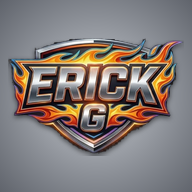
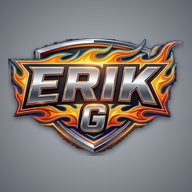
Marca Erik G en toda la app y la tienda
- Logo ERIK G (escudo con flamas) en tienda, app, íconos PWA y vista previa de Facebook
- Todo texto visible que decía Chicos Wheels ahora dice Erik G (también manual, catálogo y respaldo)

diff --git a/static/app.js b/static/app.js
@@ -1,5 +1,5 @@
 /* ==========================================================================
-   Chicos Wheels · cliente
+   Erik G · cliente
    Habla con la API por HTTP. La única fuente de verdad es el servidor:
    aquí solo se guarda una copia para pintar rápido, y después de cada
    cambio se vuelve a pedir el estado completo.
@@ -40,11 +40,11 @@ const TEMAS = [
     bg: '#F6F7F9', muestra: ['#F6F7F9', '#1F6FEB', '#FFD24D', '#1B2433', '#D32F2F'] },
   { id: 'grafito', nombre: 'Grafito', descripcion: 'Gris neutro, sin brillos. Para sesiones largas.',
     bg: '#121417', muestra: ['#121417', '#E7EAEE', '#7FB2D9', '#C9A66B', '#E0645F'] },
-  // 'clasico' (azul y dorado sobre marino, el original de Chicos Wheels) se
+  // 'clasico' (azul y dorado sobre marino, el original de Erik G) se
   // desactivó a petición: los colores todavía no son definitivos. Cuando se
   // decidan, actualiza los valores aquí y en styles.css (#ch[data-tema="clasico"],
   // hoy comentado) y descomenta esta entrada para que reaparezca en Apariencia.
-  // { id: 'clasico', nombre: 'Clásico', descripcion: 'Azul y dorado sobre marino — el estilo original de Chicos Wheels.',
+  // { id: 'clasico', nombre: 'Clásico', descripcion: 'Azul y dorado sobre marino — el estilo original de Erik G.',
   //   bg: '#0A1120', muestra: ['#0A1120', '#FFD84D', '#38D6F0', '#A78BFA', '#FF4B4B'] },
 ];
 const TEMA_KEY = 'collecthub_tema';
@@ -311,7 +311,7 @@ function movimientos() {
 function vistaAuth() {
   const esLogin = ui.authTab === 'login';
   return `<div class="auth"><div class="authbox">
-    <div class="logo"><img src="/logo.webp" alt="Chicos Wheels" class="logo-img"></div>
+    <div class="logo"><img src="/logo.webp" alt="Erik G" class="logo-img"></div>
     <div class="sub">Inventario, valuación y venta de coleccionables</div>
     <div class="pnl">
       <div class="authtabs">
@@ -319,7 +319,7 @@ function vistaAuth() {
         <button data-a="authtab" data-v="registro" class="${!esLogin ? 'on' : ''}">Crear cuenta</button>
       </div>
       ${ui.authErr ? `<div class="autherr">${esc(ui.authErr)}</div>` : ''}
-      ${esLogin ? '' : `<div class="fld"><label class="lbl">Tu nombre</label><input class="in" id="au_nombre" placeholder="Chicos Wheels" autocomplete="name"></div>`}
+      ${esLogin ? '' : `<div class="fld"><label class="lbl">Tu nombre</label><input class="in" id="au_nombre" placeholder="Erik G" autocomplete="name"></div>`}
       <div class="fld"><label class="lbl">Correo</label><input class="in" id="au_email" type="email" placeholder="tucorreo@ejemplo.com" autocomplete="email"></div>
       <div class="fld"><label class="lbl">Contraseña</label>
         <input class="in" id="au_pass" type="password" placeholder="${esLogin ? 'Tu contraseña' : 'Mínimo 8 caracteres'}" autocomplete="${esLogin ? 'current-password' : 'new-password'}"></div>
@@ -377,7 +377,7 @@ function render() {
   $('#app').innerHTML = `
   <div class="shell">
     <aside class="side">
-      <div class="logo"><img src="/logo.webp" alt="Chicos Wheels" class="logo-img"><small>${esc((usuario && (usuario.nombre || usuario.email)) || '')}</small></div>
+      <div class="logo"><img src="/logo.webp" alt="Erik G" class="logo-img"><small>${esc((usuario && (usuario.nombre || usuario.email)) || '')}</small></div>
       <nav class="nav">${NAV.filter((n) => n[0] !== 'apartados' || db.apartados.length).map((n) => (n[0].startsWith('SEP')
         ? `<div class="navsep">${n[2]}</div>`
         : `<button data-a="nav" data-v="${n[0]}" class="${ui.vista === n[0] ? 'on' : ''}"><span class="ic">${n[1]}</span>${n[2]}<span class="cnt">${CNT[n[0]] ? (CNT[n[0]]() || '') : ''}</span></button>`)).join('')}
@@ -463,7 +463,7 @@ function cambiosPrecio() {
 /* ---------- Panel ---------- */
 function vPanel() {
   const s = stats();
-  const titulo = 'CHICOS<i style="color:var(--yellow);font-style:normal">WHEELS</i>';
+  const titulo = 'ERIK<i style="color:var(--yellow);font-style:normal"> G</i>';
   if (!db.articulos.length && !db.ventas.length) {
     return hdr(titulo, 'Inventario, valuación y venta de coleccionables') +
       vacio('🏎', 'Tu vitrina está vacía', 'Registra tu primera pieza y el panel empieza a calcular capital, plusvalía y ganancias solo.',
@@ -798,7 +798,7 @@ function copiarTexto(txt) {
   if (!ok && navigator.clipboard) navigator.clipboard.writeText(txt).then(() => {}, () => {});
   return true;
 }
-/** Mensaje al cliente: Chicos Wheels atiende por Messenger e Instagram (el texto se copia para
+/** Mensaje al cliente: Erik G atiende por Messenger e Instagram (el texto se copia para
  *  pegarlo en el chat que se abre). WhatsApp solo si lo único guardado es un teléfono. */
 function enviarWhatsApp(c, txt) {
   const r = redDe(c);
@@ -1188,7 +1188,7 @@ function pintarQR() {
   $$('.qrbox').forEach((b) => {
     const t = b.dataset.txt; b.innerHTML = '';
     if (window.QRCode) {
-      try { new window.QRCode(b, { text: 'Chicos Wheels · ' + t, width: 78, height: 78, colorDark: '#0A1120', colorLight: '#ffffff', correctLevel: window.QRCode.CorrectLevel.M }); return; } catch (e) { /* sin red */ }
+      try { new window.QRCode(b, { text: 'Erik G · ' + t, width: 78, height: 78, colorDark: '#0A1120', colorLight: '#ffffff', correctLevel: window.QRCode.CorrectLevel.M }); return; } catch (e) { /* sin red */ }
     }
     b.innerHTML = `<div style="width:78px;height:78px;display:grid;place-items:center;border:2px dashed #999;border-radius:6px;font-size:9px;color:#555;text-align:center;padding:4px">${esc(t)}</div>`;
   });
@@ -1857,7 +1857,7 @@ document.addEventListener('click', async (e) => {
     case 'ofcopiar': copiarOfertas(); break;
     case 'ofaplicar': await aplicarOfertas(); break;
     case 'linktienda': copiarTexto(linkTienda(art(id))); toast('Link copiado: pégalo en Facebook y sale con foto y precio'); break;
-    case 'respzip': await bajarPDF('/respaldo', `chicos-wheels-respaldo-${hoy()}.zip`, 'GET'); await cargarEstado(); break;
+    case 'respzip': await bajarPDF('/respaldo', `erik-g-respaldo-${hoy()}.zip`, 'GET'); await cargarEstado(); break;
     case 'enctab': ui.encTab = el.dataset.v; render(); break;
     case 'encempacar': await accion(() => PATCH('/encargos/' + id, { estatus: el.dataset.v }), el.dataset.v === 'Empacado' ? 'Marcado como empacado' : 'Desempacado'); break;
     case 'encentregar': abrir('encentregar', db.encargos.find((x) => x.id === id)); break;
@@ -2532,7 +2532,7 @@ async function reportePDF() {
 async function exportar() {
   try {
     const datos = await GET('/exportar');
-    bajar(`chicos-wheels-${hoy()}.json`, JSON.stringify(datos, null, 2), 'application/json');
+    bajar(`erik-g-${hoy()}.json`, JSON.stringify(datos, null, 2), 'application/json');
     toast('Respaldo descargado');
   } catch (e) { toast(e.message, true); }
 }

diff --git a/landing page/index.html b/landing page/index.html
@@ -3,7 +3,7 @@
 <head>
   <meta charset="UTF-8">
   <meta name="viewport" content="width=device-width, initial-scale=1.0">
-  <title>Erick G</title>
+  <title>Erik G</title>
   <meta name="description" content="Hot Wheels y cartas Pokémon de colección en stock. Aparta por Facebook o Instagram y recoge el sábado en Balderas.">
   <meta name="theme-color" content="#005bac">
   <link rel="preconnect" href="https://fonts.googleapis.com">
@@ -32,8 +32,8 @@
     </symbol>
   </svg>
   <header class="barra">
-    <a class="logo" href="#inicio" aria-label="Erick G, inicio">
-      <img class="logo-img" src="img/logo.webp" alt="Erick G" width="480" height="317">
+    <a class="logo" href="#inicio" aria-label="Erik G, inicio">
+      <img class="logo-img" src="img/logo.webp" alt="Erik G" width="480" height="317">
     </a>
     <nav id="menuSecciones" aria-label="Secciones">
       <a href="#inicio">Inicio</a>
@@ -127,7 +127,7 @@
         <a class="btn-fb" id="btnMessenger" href="#" target="_blank" rel="noopener" hidden>💬 Messenger</a>
         <a class="btn-ig" id="btnInstagram" href="#" target="_blank" rel="noopener" hidden>📷 Instagram</a>
       </div>
-      <p class="sin-redes" id="sinRedes">Búscanos en Facebook e Instagram como <b>Erick G</b>.</p>
+      <p class="sin-redes" id="sinRedes">Búscanos en Facebook e Instagram como <b>Erik G</b>.</p>
       <div id="novedades" hidden></div>
     </section>
   </main>
@@ -144,7 +144,7 @@
     </details>
     <details class="creditos" id="privacidad">
       <summary>Aviso de privacidad</summary>
-      <p>Erick G es responsable de los datos que nos dejas en esta tienda.</p>
+      <p>Erik G es responsable de los datos que nos dejas en esta tienda.</p>
       <ul>
         <li><b>Qué datos:</b> tu nombre y tu usuario de Facebook o Instagram, solo cuando apartas una pieza o pides que te avisemos.</li>
         <li><b>Para qué:</b> guardarte la pieza, avisarte cuando llegue y coordinar la entrega. No los vendemos ni los compartimos con nadie.</li>
@@ -152,7 +152,7 @@
         <li><b>Tus derechos:</b> puedes pedir ver, corregir o borrar tus datos, u oponerte a su uso, escribiéndonos por Facebook o Instagram.</li>
       </ul>
     </details>
-    <p>© 2026 Erick G · Precios en pesos mexicanos · Existencias sujetas a disponibilidad</p>
+    <p>© 2026 Erik G · Precios en pesos mexicanos · Existencias sujetas a disponibilidad</p>
   </footer>
 
   <!-- Ficha ampliada -->

diff --git a/landing page/CW.js b/landing page/CW.js
@@ -1,4 +1,4 @@
-/* Landing page de Chicos Wheels.
+/* Landing page de Erik G.
  * Solo muestra el stock: lo lee de window.CW_STOCK (archivo stock.js que genera
  * la app con "Publicar stock"). No hay carrito ni pagos: "Me interesa" abre
  * la ficha con el mensaje listo para copiar y mandar por Messenger o Instagram. */
@@ -206,7 +206,7 @@
             ${FB ? `<a class="btn-fb" href="${linkMessenger(mensajePieza(p))}" target="_blank" rel="noopener">Messenger</a>` : ""}
             ${IG ? `<a class="btn-ig" href="${linkInstagram()}" target="_blank" rel="noopener">Instagram</a>` : ""}
           </div>
-          <p class="nota">${FB || IG ? "Copia el mensaje y pégalo en el chat." : "Cópialo y búscanos en Facebook o Instagram como Erick G."} ${porLlegar(p) ? "Viene en camino: apártala ya y la recoges el primer sábado después de que llegue, en Balderas." : "Entrega los sábados en Balderas."}</p>
+          <p class="nota">${FB || IG ? "Copia el mensaje y pégalo en el chat." : "Cópialo y búscanos en Facebook o Instagram como Erik G."} ${porLlegar(p) ? "Viene en camino: apártala ya y la recoges el primer sábado después de que llegue, en Balderas." : "Entrega los sábados en Balderas."}</p>
         </div>
       </div>
       <button class="cerrar" type="button" aria-label="Cerrar">×</button>
@@ -311,7 +311,7 @@
     $("#avisoMuestra").hidden = !STOCK.muestra;
     if (STOCK.generado) $("#actualizado").textContent = `Actualizado: ${STOCK.generado}`;
 
-    if (FB) { $("#btnMessenger").href = linkMessenger("Hola, vi tu página de Erick G y quiero preguntar por una pieza."); $("#btnMessenger").hidden = false; }
+    if (FB) { $("#btnMessenger").href = linkMessenger("Hola, vi tu página de Erik G y quiero preguntar por una pieza."); $("#btnMessenger").hidden = false; }
     if (IG) { $("#btnInstagram").href = linkInstagram(); $("#btnInstagram").hidden = false; }
     $("#sinRedes").hidden = !!(FB || IG);
 

diff --git a/MANUAL.html b/MANUAL.html
@@ -3,7 +3,7 @@
 <head>
 <meta charset="utf-8">
 <meta name="viewport" content="width=device-width, initial-scale=1">
-<title>Manual de Chicos Wheels (CollectHub)</title>
+<title>Manual de Erik G (CollectHub)</title>
 <style>
   :root { color-scheme: light; }
   body { font-family: -apple-system, Segoe UI, Roboto, Arial, sans-serif; max-width: 860px; margin: 0 auto; padding: 2.5rem 1.5rem 4rem; color: #24292f; line-height: 1.6; background: #fff; }
@@ -28,7 +28,7 @@
 </head>
 <body>
 <div class="imprimir"><button onclick="window.print()">🖨 Imprimir / Guardar como PDF</button></div>
-<h1>Manual de Chicos Wheels (CollectHub)</h1>
+<h1>Manual de Erik G (CollectHub)</h1>
 <p class="subtitulo">Manual de usuario del sistema de inventario y venta de coleccionables. Refleja el estado del código al 2026-09-25. Regenera los formatos imprimibles con `python generar_manual.py`.</p>
 <h2>1. Qué es</h2>
 <p>Sistema de inventario, valuación y venta de coleccionables (Hot Wheels y cartas Pokémon), pensado para uno o dos usuarios (negocio pequeño/personal). Corre en <code>http://localhost:3000</code> de esta máquina de forma permanente (arrancado por Nexus).</p>

diff --git a/static/styles.css b/static/styles.css
@@ -147,7 +147,7 @@
 }
 
 /* ── TEMA: CLÁSICO — DESACTIVADO por ahora ────────────────────────────────
-   Azul + dorado sobre marino (el original de Chicos Wheels). Se comenta a
+   Azul + dorado sobre marino (el original de Erik G). Se comenta a
    petición: los colores todavía no son definitivos. En cuanto se decidan,
    actualiza los valores de abajo y descomenta el bloque (y la entrada
    correspondiente en app.js → TEMAS) para que vuelva a aparecer como

diff --git a/landing page/asistente.js b/landing page/asistente.js
@@ -28,7 +28,7 @@
   panel.hidden = true;
   panel.setAttribute("aria-label", "Asistente de la tienda");
   panel.innerHTML = `
-    <header><div><b>Asistente Erick G</b><small>Te digo si la tenemos y te la aparto</small></div>
+    <header><div><b>Asistente Erik G</b><small>Te digo si la tenemos y te la aparto</small></div>
       <button type="button" class="asis-cerrar" aria-label="Cerrar">×</button></header>
     <div class="asis-msgs" role="log" aria-live="polite"></div>
     <form class="asis-entrada" autocomplete="off">

diff --git a/static/index.html b/static/index.html
@@ -3,7 +3,7 @@
 <head>
 <meta charset="utf-8">
 <meta name="viewport" content="width=device-width,initial-scale=1,viewport-fit=cover">
-<title>Chicos Wheels · Inventario y ventas de coleccionables</title>
+<title>Erik G · Inventario y ventas de coleccionables</title>
 <meta name="description" content="Inventario, valuación y venta de coleccionables Hot Wheels y cartas Pokémon.">
 <meta name="theme-color" content="#05080E">
 <link rel="preconnect" href="https://fonts.googleapis.com">

diff --git a/static/sw.js b/static/sw.js
@@ -3,7 +3,7 @@
  * verse siempre fresco, nunca una copia vieja servida "offline" por error.
  * Sube CACHE_VERSION cuando cambien app.js/styles.css para forzar a los
  * navegadores con la app ya instalada a bajar la versión nueva. */
-const CACHE_VERSION = 'chicoswheels-v29';
+const CACHE_VERSION = 'chicoswheels-v30';
 const ESTATICOS = ['/', '/app.js', '/styles.css', '/manifest.json', '/logo.webp'];
 
 self.addEventListener('install', (e) => {

diff --git a/landing page/CW.css b/landing page/CW.css
@@ -1,4 +1,4 @@
-/* Landing page de Chicos Wheels: solo muestra el stock.
+/* Landing page de Erik G: solo muestra el stock.
  * Paleta del borrador original (rojo, amarillo y azul de juguetería),
  * con modo oscuro por variables. */
 :root {

diff --git a/collecthub/respaldo_cuenta.py b/collecthub/respaldo_cuenta.py
@@ -41,7 +41,7 @@ def generar_zip(usuario_id: str) -> bytes:
     salida = io.BytesIO()
     with zipfile.ZipFile(salida, "w", zipfile.ZIP_DEFLATED) as z:
         z.writestr("datos.json", json.dumps(datos, ensure_ascii=False, indent=1))
-        z.writestr("LEEME.txt", "Respaldo de Chicos Wheels. Guárdalo en tu PC o en tu nube.\n"
+        z.writestr("LEEME.txt", "Respaldo de Erik G. Guárdalo en tu PC o en tu nube.\n"
                                 "Para recuperarlo: menú Datos → Restaurar respaldo.\n")
         carpeta = carpeta_fotos(usuario_id)
         if carpeta.exists():
@@ -69,7 +69,7 @@ def _leer(archivo: bytes) -> tuple:
         if len(infos) > MAX_ARCHIVOS or sum(i.file_size for i in infos) > MAX_DESCOMPRIMIDO:
             raise ErrorApp("El respaldo es demasiado grande")
         if "datos.json" not in z.namelist():
-            raise ErrorApp("Ese .zip no es un respaldo de Chicos Wheels")
+            raise ErrorApp("Ese .zip no es un respaldo de Erik G")
         datos = json.loads(z.read("datos.json"))
         fotos = {}
         for i in infos:
@@ -80,7 +80,7 @@ def _leer(archivo: bytes) -> tuple:
     try:
         return json.loads(archivo.decode("utf-8")), {}
     except (UnicodeDecodeError, json.JSONDecodeError):
-        raise ErrorApp("Ese archivo no es un respaldo de Chicos Wheels")
+        raise ErrorApp("Ese archivo no es un respaldo de Erik G")
 
 
 def _filas(datos: dict) -> dict:
@@ -105,7 +105,7 @@ def _filas(datos: dict) -> dict:
 def restaurar(usuario_id: str, archivo: bytes) -> dict:
     datos, fotos = _leer(archivo)
     if not isinstance(datos, dict) or not isinstance(datos.get("articulos"), list):
-        raise ErrorApp("Ese archivo no es un respaldo de Chicos Wheels")
+        raise ErrorApp("Ese archivo no es un respaldo de Erik G")
     filas = _filas(datos)
     with transaccion() as con:
         columnas = {tb: [c["name"] for c in con.execute(f"PRAGMA table_info({tb})")] for tb in TABLAS}

diff --git a/collecthub/rutas/tienda.py b/collecthub/rutas/tienda.py
@@ -31,21 +31,21 @@ def _pagina(pieza: dict | None = None) -> Response:
     texto = (landing.CARPETA_LANDING / "index.html").read_text(encoding="utf-8")
     raiz = request.url_root.rstrip("/")
     if pieza:
-        titulo = f"{pieza['nombre']} · ${pieza['precio']:,.0f} MXN · Erick G"
+        titulo = f"{pieza['nombre']} · ${pieza['precio']:,.0f} MXN · Erik G"
         desc = " · ".join(str(x) for x in (pieza.get("serie") or pieza.get("expansion"), pieza.get("anio"),
                                              "Entrega los sábados en Balderas") if x)
         foto = pieza.get("foto") or ""
         imagen = f"{raiz}/tienda/{foto}" if foto.startswith("foto/") else foto
         extra = f'<meta name="cw-pieza" content="{html.escape(pieza["id"])}">'
     else:
-        titulo = "Erick G · Hot Wheels, Pokémon y más"
+        titulo = "Erik G · Hot Wheels, Pokémon y más"
         desc = "Piezas de colección en stock. Aparta y recoge el sábado en Balderas."
         imagen = f"{raiz}/tienda/img/portada.jpg" if (landing.CARPETA_LANDING / "img" / "portada.jpg").exists() else ""
         extra = ""
     e = lambda v: html.escape(str(v), quote=True)
     metas = ['<base href="/tienda/">', extra,
              '<meta property="og:type" content="website">',
-             '<meta property="og:site_name" content="Erick G">',
+             '<meta property="og:site_name" content="Erik G">',
              f'<meta property="og:title" content="{e(titulo)}">',
              f'<meta property="og:description" content="{e(desc)}">',
              f'<meta property="og:url" content="{e(request.url)}">',

diff --git a/collecthub/catalogo.py b/collecthub/catalogo.py
@@ -21,7 +21,7 @@ from .util import ErrorApp
 MAX_PIEZAS = 60
 MAX_BYTES = 2 * 1024 * 1024
 HOSTS_FOTO = ("cdn.shopify.com", "creations.mattel.com", "shop.mattel.com", "images.pokemontcg.io", "assets.tcgdex.net")
-_UA = {"User-Agent": "Mozilla/5.0 (ChicosWheels)"}
+_UA = {"User-Agent": "Mozilla/5.0 (ErikG)"}
 
 
 def _host_permitido(url: str) -> bool:
@@ -109,7 +109,7 @@ def generar_catalogo(usuario_id: str, config: dict) -> bytes:
         pdf.set_font("Helvetica", "B", 20)
         pdf.set_text_color(*AZUL)
         pdf.set_xy(10, 10)
-        pdf.cell(0, 9, "Catalogo Chicos Wheels", new_x="LMARGIN", new_y="NEXT")
+        pdf.cell(0, 9, "Catalogo Erik G", new_x="LMARGIN", new_y="NEXT")
         pdf.set_font("Helvetica", "", 9)
         pdf.set_text_color(*GRIS)
         pdf.set_x(10)
